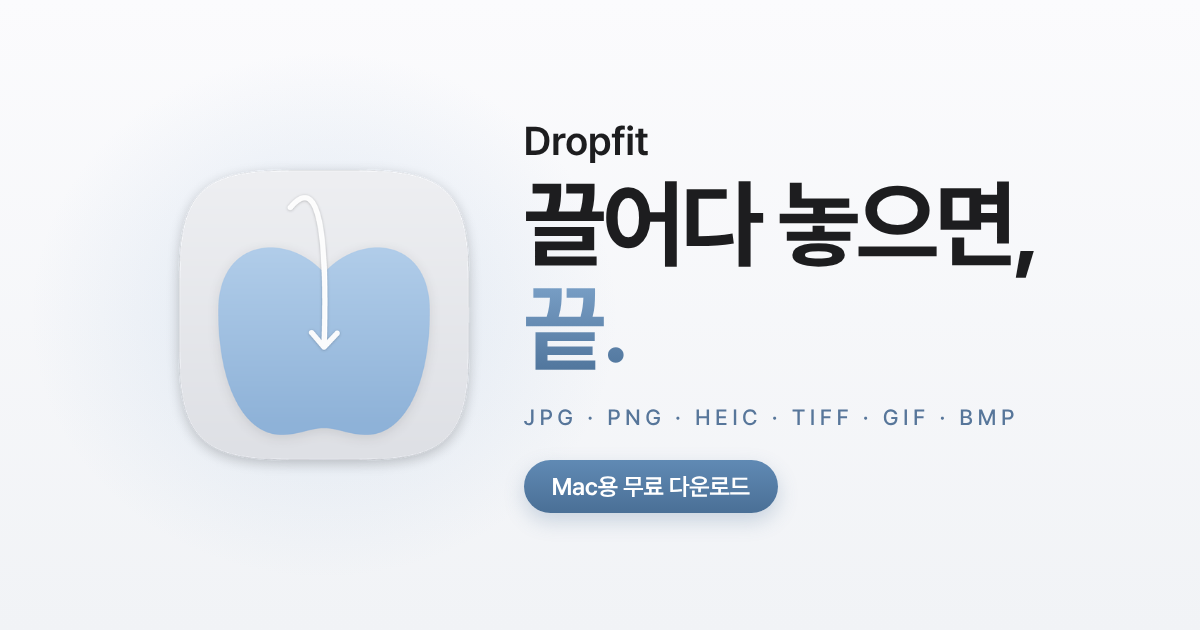
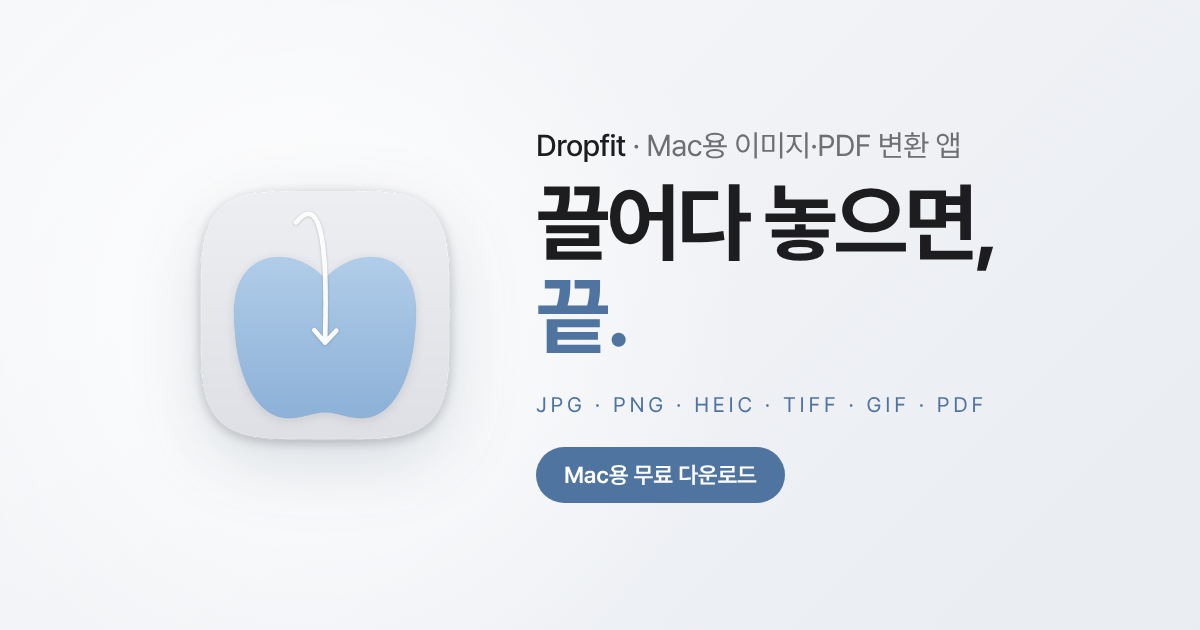
Category line: 'Mac용 이미지·PDF 변환 앱' in tag, title, meta, OG (og.png v7, BMP→PDF), README (#51)
Claude-Session: https://claude.ai/code/session_012b7mjGCkWeF2qVz8kPwp3i

diff --git a/index.html b/index.html
@@ -3,23 +3,23 @@
 <head>
 <meta charset="utf-8">
 <meta name="viewport" content="width=device-width, initial-scale=1, viewport-fit=cover">
-<title>Dropfit — 끌어다 놓으면, 끝.</title>
-<meta name="description" content="이미지를 Dropfit에 끌어다 놓으면 포맷이 원형으로 펼쳐집니다. JPG · PNG · HEIC · TIFF · GIF · PDF 변환을 한 번의 동작으로. macOS 전용 무료 테스트 버전.">
+<title>Dropfit · Mac용 이미지·PDF 변환 앱</title>
+<meta name="description" content="Dropfit은 Mac용 이미지·PDF 변환 앱입니다. 끌어다 놓으면 JPG · PNG · HEIC · TIFF · GIF · PDF로 바로 바뀝니다. 무료 테스트 버전.">
 <meta name="theme-color" content="#fbfbfd">
 
 <meta property="og:type" content="website">
 <meta property="og:site_name" content="Dropfit">
-<meta property="og:title" content="Dropfit — 끌어다 놓으면, 끝.">
-<meta property="og:description" content="이미지를 끌어다 놓으면 원하는 포맷으로. Mac용 무료 테스트 버전을 받아 보세요.">
+<meta property="og:title" content="Dropfit · Mac용 이미지·PDF 변환 앱">
+<meta property="og:description" content="끌어다 놓으면, 끝. 이미지와 PDF를 원하는 포맷으로. 무료 테스트 버전을 받아 보세요.">
 <link rel="canonical" href="https://realleejeonghoon.github.io/dropfit-download/">
 <meta property="og:url" content="https://realleejeonghoon.github.io/dropfit-download/">
-<meta property="og:image" content="https://realleejeonghoon.github.io/dropfit-download/assets/og.png?v=6">
+<meta property="og:image" content="https://realleejeonghoon.github.io/dropfit-download/assets/og.png?v=7">
 <meta property="og:image:width" content="1200">
 <meta property="og:image:height" content="630">
-<meta property="og:image:alt" content="Dropfit 앱 아이콘과 문구 ‘끌어다 놓으면, 끝.’">
+<meta property="og:image:alt" content="Dropfit 앱 아이콘과 문구 ‘Mac용 이미지·PDF 변환 앱 · 끌어다 놓으면, 끝.’">
 <meta property="og:locale" content="ko_KR">
 <meta name="twitter:card" content="summary_large_image">
-<meta name="twitter:image" content="https://realleejeonghoon.github.io/dropfit-download/assets/og.png?v=6">
+<meta name="twitter:image" content="https://realleejeonghoon.github.io/dropfit-download/assets/og.png?v=7">
 
 <link rel="stylesheet" href="fonts/pretendardvariable-dynamic-subset.css">
 <link rel="icon" type="image/png" href="assets/favicon.png">
@@ -609,7 +609,7 @@
 
 <header class="intro" id="top">
   <div class="wrap">
-    <p class="tag">Dropfit 0.4 · 무료 테스트 버전</p>
+    <p class="tag">Dropfit · Mac용 이미지·PDF 변환 앱</p>
     <h1>끌어다 놓으면, <span class="grad">끝.</span></h1>
     <p class="lede">이미지와 PDF를 원하는 포맷으로. <br class="m">한 장도, 폴더째로도.</p>
     <div class="cta">

diff --git a/README.md b/README.md
@@ -1,7 +1,7 @@
 <p align="center"><img src="icon.png" width="160" alt="Dropfit"></p>
 
 <h1 align="center">Dropfit</h1>
-<p align="center">이미지를 끌어다 놓으면, 원하는 포맷으로.</p>
+<p align="center">Mac용 이미지·PDF 변환 앱. 끌어다 놓으면, 원하는 포맷으로.</p>
 
 <p align="center">
   <a href="https://github.com/realleejeonghoon/dropfit-download/raw/main/Dropfit-macOS.zip"><b>⬇ Dropfit 다운로드 (zip, 0.7MB)</b></a>
